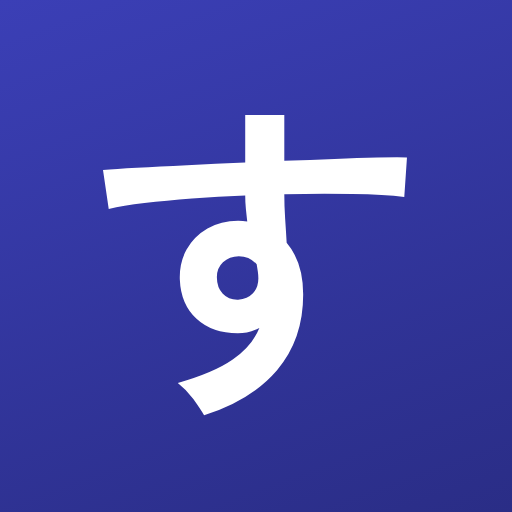
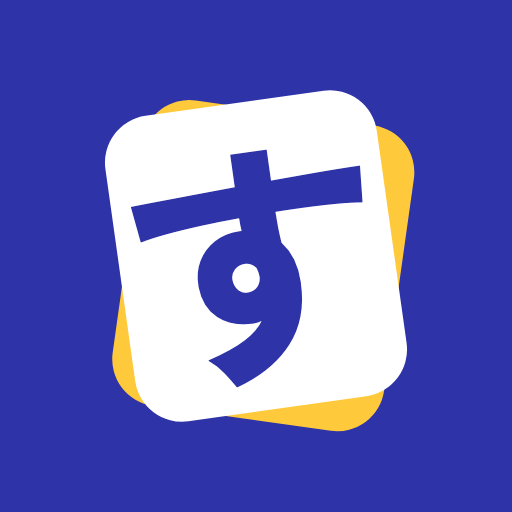
앱 아이콘을 인디고 바탕의 흰 단어 카드 + 노란 겹친 카드 + 「す」 디자인으로 변경

diff --git a/store/아이콘시안/아이콘_D변형.html b/store/아이콘시안/아이콘_D변형.html
@@ -1,0 +1,8 @@
+<!doctype html><meta charset=utf-8><link href="https://fonts.googleapis.com/css2?family=Zen+Kaku+Gothic+New:wght@900&display=swap" rel="stylesheet"><style>
+body{margin:0;padding:28px;background:#eceef3;font-family:-apple-system,"Apple SD Gothic Neo",sans-serif}
+.g{display:grid;grid-template-columns:repeat(3,1fr);gap:26px;max-width:860px;margin:0 auto}
+.c{text-align:center}.c p{margin:12px 0 0;font-weight:800;font-size:15px}.c small{display:block;font-weight:600;color:#666;font-size:12px;margin-top:2px}
+.ic{width:220px;height:220px;margin:0 auto;border-radius:50px;position:relative;overflow:hidden;box-shadow:0 10px 24px rgba(20,20,60,.22);background:#2f33a8}
+.ic svg{position:absolute;inset:0;width:100%;height:100%}
+.ic b{position:absolute;inset:0;display:flex;align-items:center;justify-content:center;font-family:"Zen Kaku Gothic New",sans-serif;font-weight:900}
+</style><body><div class="g"><div class="c"><div class="ic d" style=""><svg viewBox="0 0 220 220"><g transform="rotate(8 110 110)"><rect x="50" y="42" width="128" height="144" rx="22" fill="#ffc93c"/></g><g transform="rotate(-8 110 110)"><rect x="46" y="38" width="128" height="144" rx="22" fill="#fff"/></g></svg><b style="color:#2f33a8;font-size:118px;transform:rotate(-8deg);padding-bottom:4px">す</b><svg viewBox="0 0 220 220"></svg></div><p>A. 뒤에 노란 카드 한 장 겹침<small>카드 두 장이 겹쳐서 단어장 느낌, 따뜻한 포인트</small></p></div><div class="c"><div class="ic d" style=""><svg viewBox="0 0 220 220"><g transform="rotate(-8 110 110)"><rect x="46" y="38" width="128" height="144" rx="22" fill="#fff"/><rect x="74" y="150" width="72" height="9" rx="4.5" fill="#ffc93c"/></g></svg><b style="color:#2f33a8;font-size:118px;transform:rotate(-8deg);padding-bottom:4px">す</b><svg viewBox="0 0 220 220"></svg></div><p>B. 카드 아래 노란 밑줄<small>공부할 때 형광펜으로 친 느낌</small></p></div><div class="c"><div class="ic d" style=""><svg viewBox="0 0 220 220"><g transform="rotate(-8 110 110)"><rect x="46" y="38" width="128" height="144" rx="22" fill="#fff"/></g></svg><b style="color:#2f33a8;font-size:118px;transform:rotate(-8deg);padding-bottom:4px">す</b><svg viewBox="0 0 220 220"><g transform="translate(168 52)"><path d="M0-16 4.5-4.5 16 0 4.5 4.5 0 16-4.5 4.5-16 0-4.5-4.5Z" fill="#ffc93c"/></g></svg></div><p>C. 노란 반짝임(별) 하나<small>밝고 가벼운 느낌, 게임 같지 않게 작게</small></p></div><div class="c"><div class="ic d" style=""><svg viewBox="0 0 220 220"><g transform="rotate(-8 110 110)"><rect x="46" y="38" width="128" height="144" rx="22" fill="#fff"/><path d="M174 130 V160 a22 22 0 0 1 -22 22 H122 Z" fill="#ffc93c"/></g></svg><b style="color:#2f33a8;font-size:118px;transform:rotate(-8deg);padding-bottom:4px">す</b><svg viewBox="0 0 220 220"></svg></div><p>D. 카드 모서리 접힘(노랑)<small>종이 카드 느낌, 아주 깔끔함</small></p></div><div class="c"><div class="ic d" style=""><svg viewBox="0 0 220 220"><g transform="rotate(-8 110 110)"><rect x="46" y="38" width="128" height="144" rx="22" fill="#fff"/></g></svg><b style="color:#2f33a8;font-size:118px;transform:rotate(-8deg);padding-bottom:4px">す</b><svg viewBox="0 0 220 220"><circle cx="168" cy="58" r="24" fill="#ffc93c"/><path d="M157 58l8 8 14-16" fill="none" stroke="#2f33a8" stroke-width="7" stroke-linecap="round" stroke-linejoin="round"/></svg></div><p>E. 카드 위 노란 체크 배지<small>'맞았다' 느낌, 시험 공부 연상</small></p></div><div class="c"><div class="ic d" style=""><svg viewBox="0 0 220 220"><g transform="rotate(-8 110 110)"><rect x="46" y="50" width="128" height="144" rx="22" fill="#ffc93c"/></g><g transform="rotate(-8 110 110)"><rect x="46" y="38" width="128" height="144" rx="22" fill="#fff"/></g></svg><b style="color:#2f33a8;font-size:118px;transform:rotate(-8deg);padding-bottom:4px">す</b><svg viewBox="0 0 220 220"></svg></div><p>F. 카드 아래 노란 그림자 판<small>입체감, 아이콘이 통통 떠 보임</small></p></div></div>

diff --git a/store/아이콘시안/아이콘_눈에띄는시안.html b/store/아이콘시안/아이콘_눈에띄는시안.html
@@ -1,0 +1,22 @@
+<!doctype html><meta charset=utf-8><link href="https://fonts.googleapis.com/css2?family=Zen+Kaku+Gothic+New:wght@700;900&display=swap" rel="stylesheet">
+<style>
+body{margin:0;padding:28px;background:#eceef3;font-family:-apple-system,"Apple SD Gothic Neo",sans-serif}
+.g{display:grid;grid-template-columns:repeat(3,1fr);gap:26px;max-width:860px;margin:0 auto}
+.c{text-align:center}.c p{margin:12px 0 0;font-weight:800;font-size:15px}.c small{display:block;font-weight:600;color:#666;font-size:12px;margin-top:2px}
+.ic{width:220px;height:220px;margin:0 auto;border-radius:50px;position:relative;overflow:hidden;box-shadow:0 10px 24px rgba(20,20,60,.22)}
+.ic svg{position:absolute;inset:0;width:100%;height:100%}
+.ic b{position:absolute;inset:0;display:flex;align-items:center;justify-content:center;font-family:"Zen Kaku Gothic New",sans-serif;font-weight:900;color:#fff;font-size:150px;padding-bottom:10px}
+.a{background:linear-gradient(160deg,#4a4ee0,#2a2d86)}
+.b{background:#ffc93c}.b b{color:#2b2f9e}
+.c1{background:linear-gradient(135deg,#6a4cf0 0%,#ff6fa8 100%)}
+.d{background:#2f33a8}
+.e{background:linear-gradient(160deg,#4a4ee0,#2a2d86)}.e b{color:#2b2f9e;font-size:130px;padding-bottom:6px}
+.f{background:#1f2370}.f b{color:#ffc93c}
+</style><body><div class="g">
+<div class="c"><div class="ic a"><svg viewBox="0 0 220 220"><circle cx="110" cy="110" r="84" fill="#ffc93c"/></svg><b style="color:#2b2f9e">す</b></div><p>A. 인디고 + 노란 원 + 남색 「す」<small>원색 대비로 눈에 띔</small></p></div>
+<div class="c"><div class="ic b"><b>す</b><svg viewBox="0 0 220 220"><circle cx="172" cy="50" r="14" fill="#e8402f"/></svg></div><p>B. 노랑 + 남색 「す」 + 붉은 점<small>스토어에서 가장 눈에 띄는 색</small></p></div>
+<div class="c"><div class="ic c1"><svg viewBox="0 0 220 220"><circle cx="180" cy="40" r="70" fill="#fff" fill-opacity=".12"/><circle cx="30" cy="200" r="60" fill="#fff" fill-opacity=".1"/></svg><b>す</b></div><p>C. 보라→핑크 그라데이션 + 「す」<small>화사하고 요즘 앱 느낌</small></p></div>
+<div class="c"><div class="ic d"><svg viewBox="0 0 220 220"><g transform="rotate(-8 110 110)"><rect x="46" y="38" width="128" height="144" rx="22" fill="#fff"/></g><rect x="0" y="0" width="0" height="0"/></svg><b style="color:#2f33a8;font-size:118px;transform:rotate(-8deg);padding-bottom:4px">す</b><svg viewBox="0 0 220 220"><circle cx="164" cy="60" r="12" fill="#e8402f"/></svg></div><p>D. 인디고 + 흰 단어 카드 + 「す」<small>플래시카드 = 공부 앱 느낌</small></p></div>
+<div class="c"><div class="ic e"><svg viewBox="0 0 220 220"><rect x="40" y="40" width="140" height="140" rx="34" fill="#fff"/><circle cx="162" cy="58" r="17" fill="#ffc93c"/></svg><b>す</b></div><p>E. 인디고 + 흰 둥근 사각 + 노란 점<small>앱 안의 앱 느낌, 깔끔하게 강조</small></p></div>
+<div class="c"><div class="ic f"><svg viewBox="0 0 220 220"><circle cx="110" cy="110" r="86" fill="none" stroke="#ffc93c" stroke-width="8"/></svg><b>す</b></div><p>F. 짙은 남색 + 노란 굵은 링 + 노란 「す」<small>고급 + 포인트색</small></p></div>
+</div></body>

diff --git a/index.html b/index.html
@@ -7,8 +7,8 @@
 <link rel="manifest" href="manifest.json">
 <link rel="stylesheet" href="https://cdn.jsdelivr.net/npm/galmuri@latest/dist/galmuri.css">
 <meta name="theme-color" content="#fbfaf7">
-<link rel="icon" type="image/png" sizes="192x192" href="icon-192.png?v=7">
-<link rel="apple-touch-icon" href="apple-touch-icon.png?v=7">
+<link rel="icon" type="image/png" sizes="192x192" href="icon-192.png?v=8">
+<link rel="apple-touch-icon" href="apple-touch-icon.png?v=8">
 <meta name="apple-mobile-web-app-capable" content="yes">
 <meta name="mobile-web-app-capable" content="yes">
 <meta name="apple-mobile-web-app-title" content="술술 일본어">
